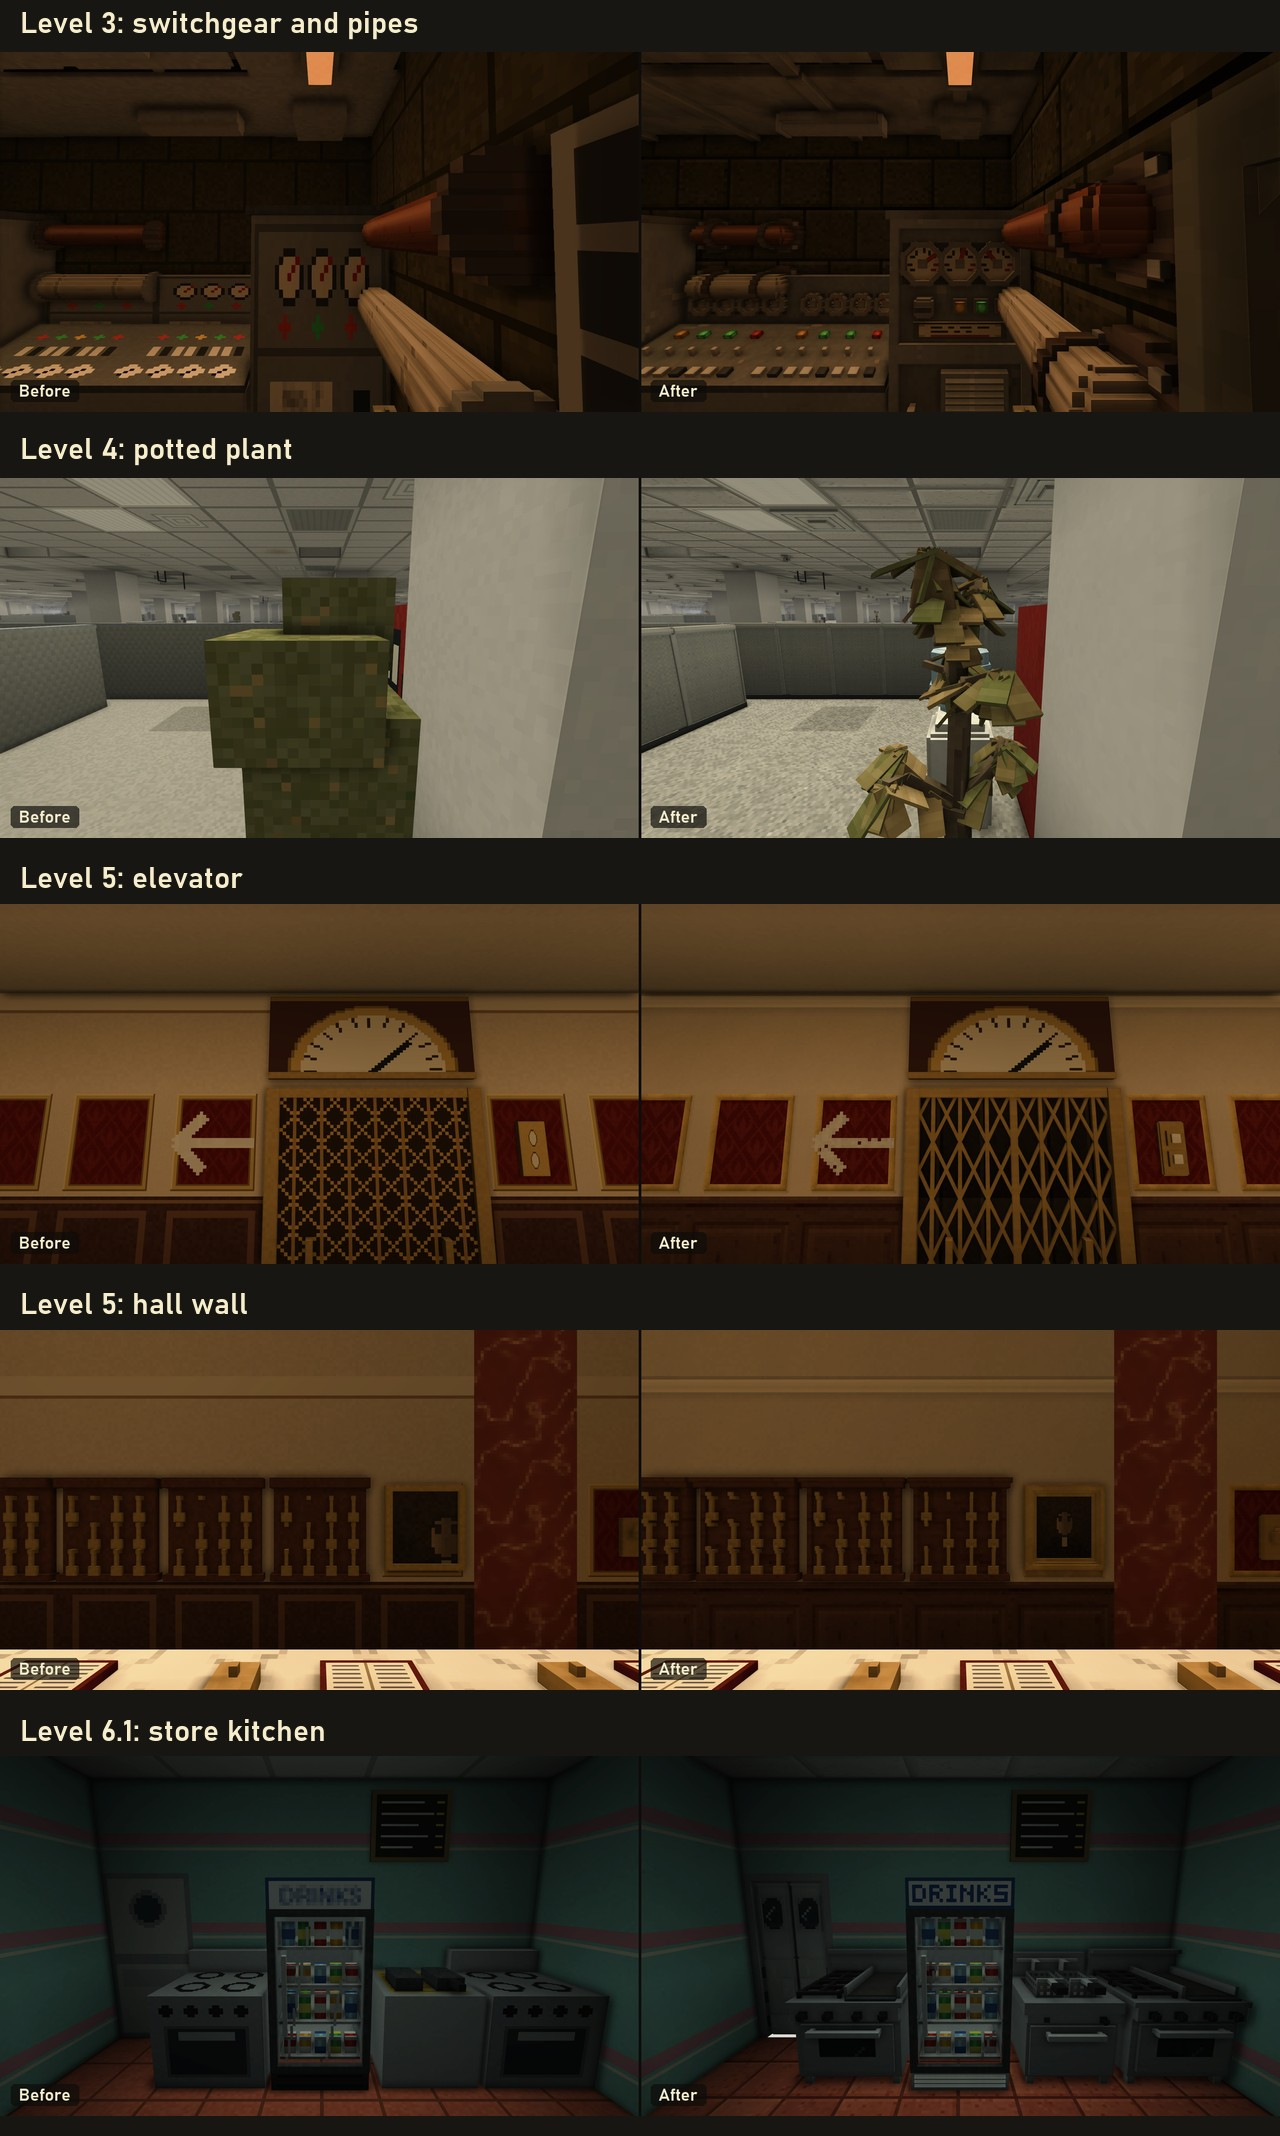
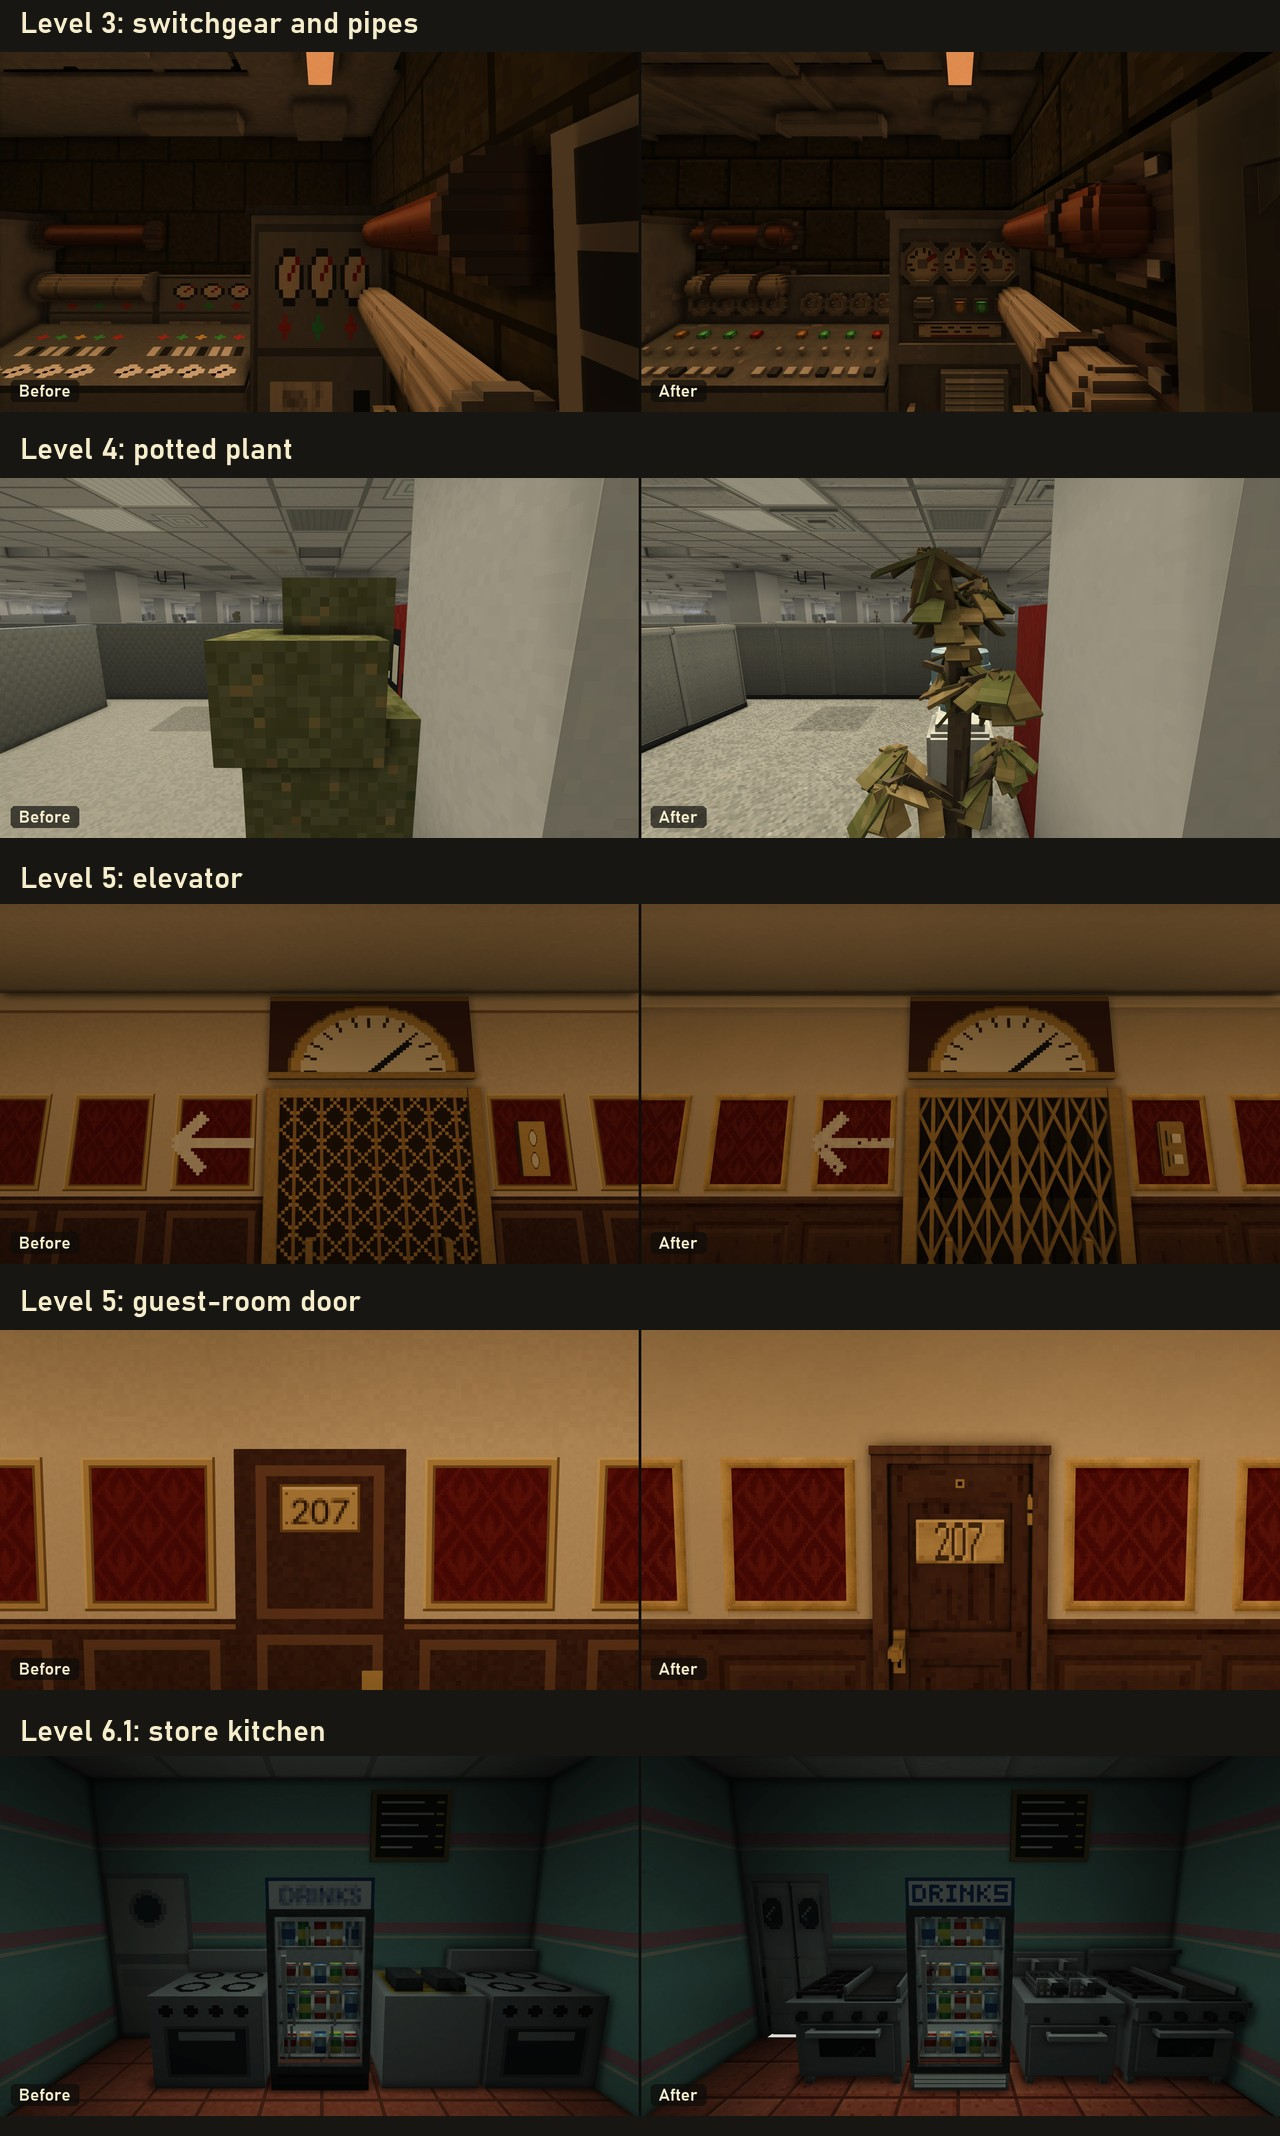
Showcase 0.514.0: the Level 5 guest-room door in place of the hall wall pair, which showed too little change

Changed region(s): [[0.0, 0.5871, 1.0, 0.8034]]

diff --git a/docs/moddb-description.html b/docs/moddb-description.html
@@ -39,7 +39,7 @@
 <div style="flex: 1 1 100%;"><img style="display: block; width: 100%; height: auto; border-radius: 10px; border: 1px solid #e3d9bd;" src="https://raw.githubusercontent.com/jeffreyhockema/VS-Backrooms/main/docs/moddb/img/progress-0514/01-level3-switchgear.jpg" alt="Level 3's switchgear and pipes, before and after" width="1280"><div style="margin: 6px 2px 0; font-size: 0.92em; color: #4a4336;"><strong>Level 3's switchgear and pipes.</strong> Painted dials became modelled gauges, buttons and a louvred cabinet, and the pipe end gained a ribbed cap.</div></div>
 <div style="flex: 1 1 100%;"><img style="display: block; width: 100%; height: auto; border-radius: 10px; border: 1px solid #e3d9bd;" src="https://raw.githubusercontent.com/jeffreyhockema/VS-Backrooms/main/docs/moddb/img/progress-0514/02-level4-ficus.jpg" alt="Level 4's potted plant, before and after" width="1280"><div style="margin: 6px 2px 0; font-size: 0.92em; color: #4a4336;"><strong>Level 4's potted plant.</strong> A green block of noise became a potted ficus with a trunk and leaves.</div></div>
 <div style="flex: 1 1 100%;"><img style="display: block; width: 100%; height: auto; border-radius: 10px; border: 1px solid #e3d9bd;" src="https://raw.githubusercontent.com/jeffreyhockema/VS-Backrooms/main/docs/moddb/img/progress-0514/03-level5-elevator.jpg" alt="Level 5's elevator, before and after" width="1280"><div style="margin: 6px 2px 0; font-size: 0.92em; color: #4a4336;"><strong>Level 5's elevator.</strong> A printed pattern became a real folding brass gate, and the call plate and wall panels gained depth.</div></div>
-<div style="flex: 1 1 100%;"><img style="display: block; width: 100%; height: auto; border-radius: 10px; border: 1px solid #e3d9bd;" src="https://raw.githubusercontent.com/jeffreyhockema/VS-Backrooms/main/docs/moddb/img/progress-0514/04-level5-hall.jpg" alt="Level 5's hall wall, before and after" width="1280"><div style="margin: 6px 2px 0; font-size: 0.92em; color: #4a4336;"><strong>Level 5's hall wall.</strong> The hotel wall gained a cornice, a framed portrait and sharper trim above the key rack.</div></div>
+<div style="flex: 1 1 100%;"><img style="display: block; width: 100%; height: auto; border-radius: 10px; border: 1px solid #e3d9bd;" src="https://raw.githubusercontent.com/jeffreyhockema/VS-Backrooms/main/docs/moddb/img/progress-0514/04-level5-door.jpg" alt="Level 5's guest-room door, before and after" width="1280"><div style="margin: 6px 2px 0; font-size: 0.92em; color: #4a4336;"><strong>Level 5's guest-room door.</strong> A flat painted door became a panelled leaf in a casing, with a brass number plate, knob, hinges and peephole.</div></div>
 <div style="flex: 1 1 100%;"><img style="display: block; width: 100%; height: auto; border-radius: 10px; border: 1px solid #e3d9bd;" src="https://raw.githubusercontent.com/jeffreyhockema/VS-Backrooms/main/docs/moddb/img/progress-0514/05-level6-1-kitchen.jpg" alt="The Snackrooms' store kitchen, before and after" width="1280"><div style="margin: 6px 2px 0; font-size: 0.92em; color: #4a4336;"><strong>The Snackrooms' store kitchen.</strong> Flat painted ovens and fridge doors became modelled cooktops, grills, a toaster and double doors.</div></div>
 </div>
 </div>

diff --git a/docs/moddb-description.md b/docs/moddb-description.md
@@ -27,7 +27,7 @@ The same spot before the update (left) and after it (right).
 - [Level 3's switchgear and pipes](https://raw.githubusercontent.com/jeffreyhockema/VS-Backrooms/main/docs/moddb/img/progress-0514/01-level3-switchgear.jpg): painted dials became modelled gauges, buttons and a louvred cabinet, and the pipe end gained a ribbed cap.
 - [Level 4's potted plant](https://raw.githubusercontent.com/jeffreyhockema/VS-Backrooms/main/docs/moddb/img/progress-0514/02-level4-ficus.jpg): a green block of noise became a potted ficus with a trunk and leaves.
 - [Level 5's elevator](https://raw.githubusercontent.com/jeffreyhockema/VS-Backrooms/main/docs/moddb/img/progress-0514/03-level5-elevator.jpg): a printed pattern became a real folding brass gate, and the call plate and wall panels gained depth.
-- [Level 5's hall wall](https://raw.githubusercontent.com/jeffreyhockema/VS-Backrooms/main/docs/moddb/img/progress-0514/04-level5-hall.jpg): the hotel wall gained a cornice, a framed portrait and sharper trim above the key rack.
+- [Level 5's guest-room door](https://raw.githubusercontent.com/jeffreyhockema/VS-Backrooms/main/docs/moddb/img/progress-0514/04-level5-door.jpg): a flat painted door became a panelled leaf in a casing, with a brass number plate, knob, hinges and peephole.
 - [The Snackrooms' store kitchen](https://raw.githubusercontent.com/jeffreyhockema/VS-Backrooms/main/docs/moddb/img/progress-0514/05-level6-1-kitchen.jpg): flat painted ovens and fridge doors became modelled cooktops, grills, a toaster and double doors.
 
 ## What's new in 0.513.0

diff --git a/CHANGELOG.md b/CHANGELOG.md
@@ -80,7 +80,7 @@ The same spot in the game before the pass (left) and after it (right). All five 
 - [docs/screenshots/progress-0514/01-level3-switchgear.jpg](docs/screenshots/progress-0514/01-level3-switchgear.jpg): Level 3's switchgear and pipes. Painted dials became modelled gauges, buttons and a louvred cabinet, and the pipe end gained a ribbed cap.
 - [docs/screenshots/progress-0514/02-level4-ficus.jpg](docs/screenshots/progress-0514/02-level4-ficus.jpg): Level 4's potted plant. A green block of noise became a potted ficus with a trunk and leaves.
 - [docs/screenshots/progress-0514/03-level5-elevator.jpg](docs/screenshots/progress-0514/03-level5-elevator.jpg): Level 5's elevator. A printed pattern became a real folding brass gate, and the call plate and wall panels gained depth.
-- [docs/screenshots/progress-0514/04-level5-hall.jpg](docs/screenshots/progress-0514/04-level5-hall.jpg): Level 5's hall wall. The hotel wall gained a cornice, a framed portrait and sharper trim above the key rack.
+- [docs/screenshots/progress-0514/04-level5-door.jpg](docs/screenshots/progress-0514/04-level5-door.jpg): Level 5's guest-room door. A flat painted door became a panelled leaf in a casing, with a brass number plate, knob, hinges and peephole.
 - [docs/screenshots/progress-0514/05-level6-1-kitchen.jpg](docs/screenshots/progress-0514/05-level6-1-kitchen.jpg): The Snackrooms' store kitchen. Flat painted ovens and fridge doors became modelled cooktops, grills, a toaster and double doors.
 
 ## 0.513.3 — fixes from the first week
